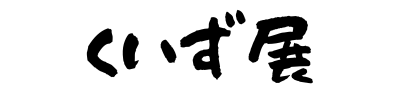
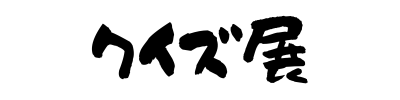
クイズ展の修正

Changed region(s): [[0.21, 0.09, 0.78, 0.84]]

diff --git a/app/controllers/questions_controller.rb b/app/controllers/questions_controller.rb
@@ -33,7 +33,7 @@ class QuestionsController < ApplicationController
     end
   end
 
-  def index
+  def correct
     @questions = Question.all
   end
 
